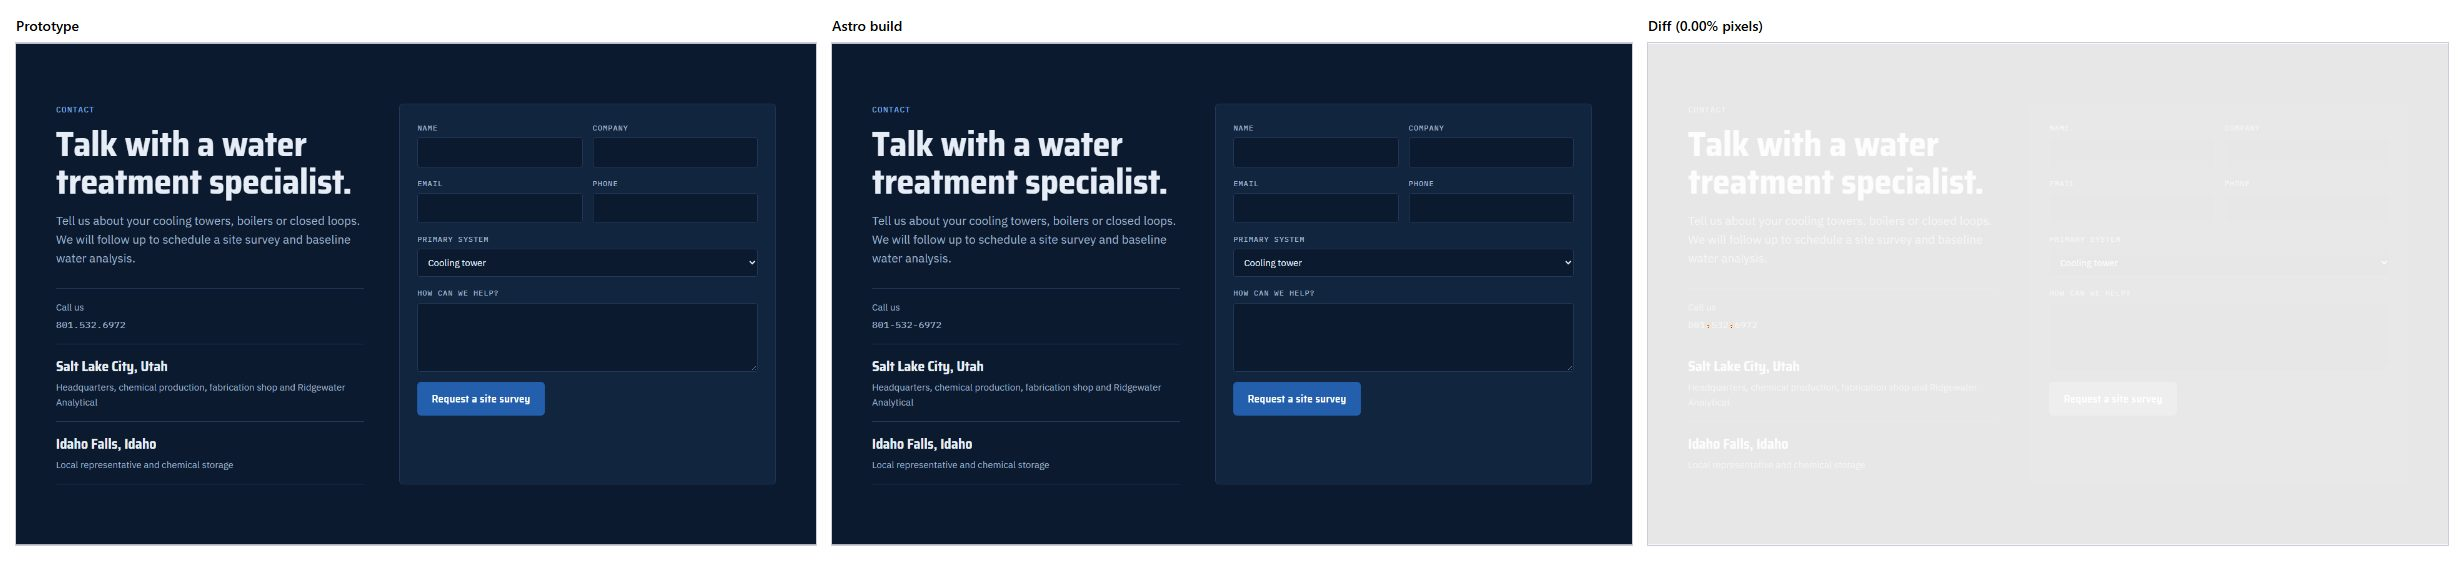
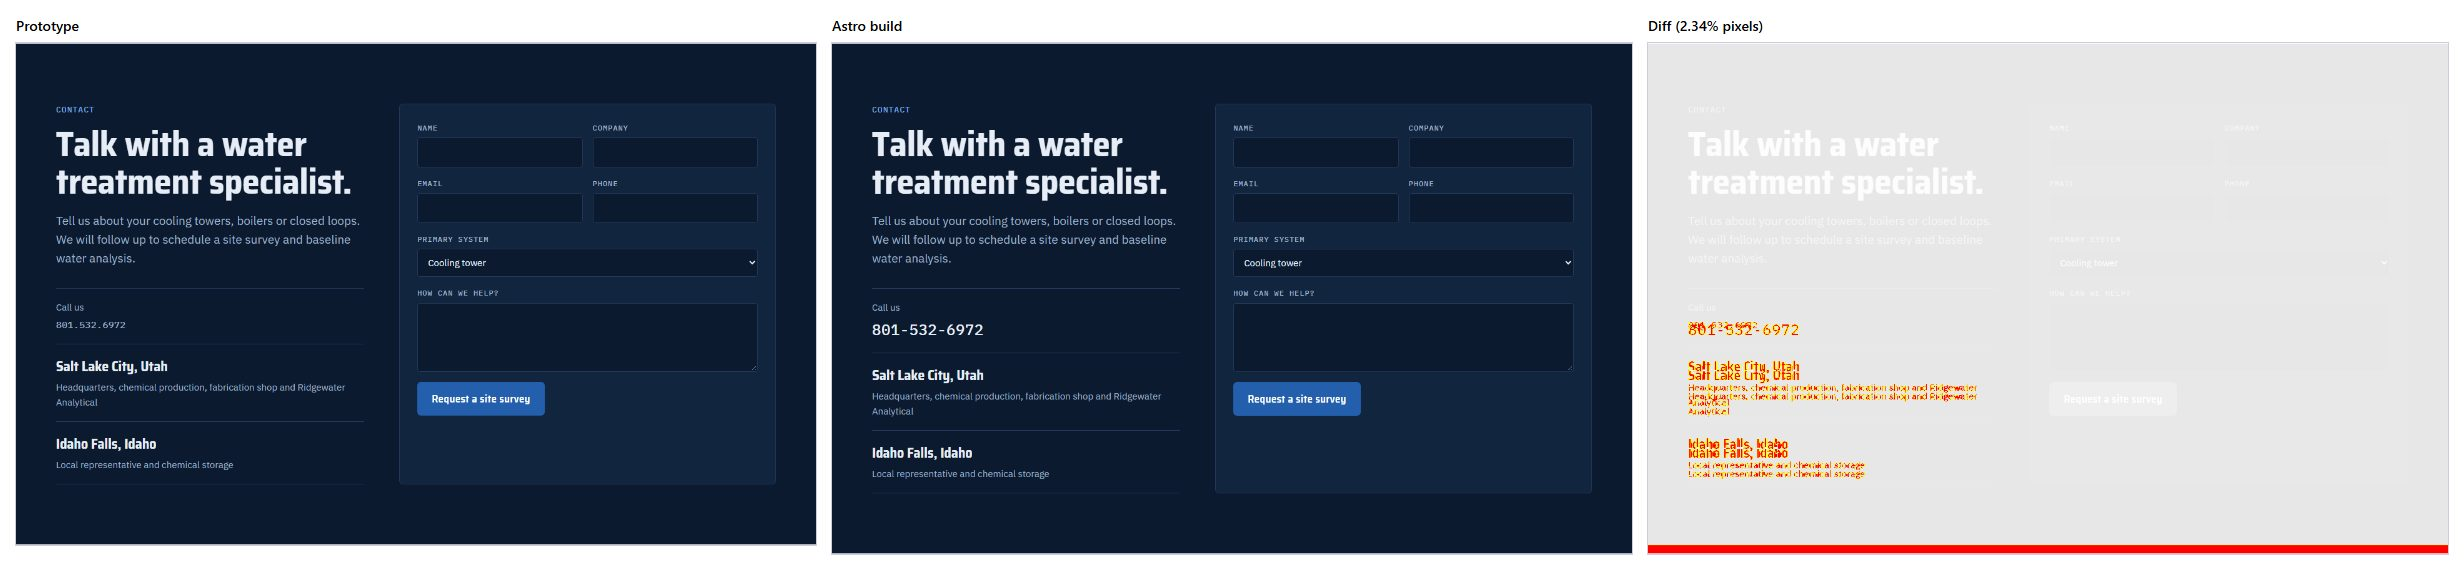
Phase 1 screenshots: monthly wording, larger contact phone

diff --git a/phase-1/report.md b/phase-1/report.md
@@ -6,33 +6,33 @@
 | 1280 | header | 1280×74 | 1280×74 | 0.72% |
 | 1280 | hero | 1280×670 | 1280×670 | 0.06% |
 | 1280 | proof-strip | 1280×200 | 1280×200 | 2.97% |
-| 1280 | ecosystem | 1280×1456 | 1280×1456 | 0.00% |
+| 1280 | ecosystem | 1280×1456 | 1280×1456 | 0.05% |
 | 1280 | systems | 1280×1353 | 1280×1353 | 0.11% |
 | 1280 | equipment | 1280×1586 | 1280×1586 | 0.03% |
 | 1280 | ridgewater | 1280×1958 | 1280×1958 | 0.03% |
-| 1280 | service | 1280×1043 | 1280×1043 | 0.04% |
+| 1280 | service | 1280×1043 | 1280×1043 | 0.09% |
 | 1280 | construction | 1280×747 | 1280×747 | 0.00% |
 | 1280 | training | 1280×258 | 1280×258 | 0.00% |
 | 1280 | industries | 1280×656 | 1280×656 | 0.00% |
 | 1280 | memberships | 1280×1369 | 1280×1369 | 0.09% |
 | 1280 | about | 1280×1320 | 1280×1320 | 0.03% |
 | 1280 | working-with-us | 1280×498 | 1280×498 | 0.00% |
-| 1280 | contact | 1280×803 | 1280×803 | 0.00% |
-| 1280 | footer | 1280×414 | 1280×414 | 0.05% |
+| 1280 | contact | 1280×803 | 1280×817 | 2.34% |
+| 1280 | footer | 1280×414 | 1280×414 | 0.79% |
 | 390 | utility-bar | 390×64 | 390×64 | 1.16% |
 | 390 | header | 390×70 | 390×70 | 0.10% |
 | 390 | hero | 390×1061 | 390×1061 | 0.03% |
 | 390 | proof-strip | 390×390 | 390×390 | 3.69% |
-| 390 | ecosystem | 390×3035 | 390×3035 | 0.00% |
+| 390 | ecosystem | 390×3035 | 390×3035 | 0.09% |
 | 390 | systems | 390×2585 | 390×2585 | 0.09% |
 | 390 | equipment | 390×3347 | 390×3347 | 0.01% |
 | 390 | ridgewater | 390×3498 | 390×3498 | 0.00% |
-| 390 | service | 390×1849 | 390×1849 | 0.01% |
+| 390 | service | 390×1849 | 390×1849 | 0.10% |
 | 390 | construction | 390×1450 | 390×1450 | 0.00% |
 | 390 | training | 390×532 | 390×532 | 0.00% |
 | 390 | industries | 390×1278 | 390×1278 | 0.00% |
 | 390 | memberships | 390×2782 | 390×2782 | 0.08% |
 | 390 | about | 390×1976 | 390×1976 | 0.00% |
 | 390 | working-with-us | 390×757 | 390×757 | 0.00% |
-| 390 | contact | 390×1456 | 390×1456 | 0.00% |
-| 390 | footer | 390×998 | 390×998 | 0.07% |
+| 390 | contact | 390×1456 | 390×1470 | 4.03% |
+| 390 | footer | 390×998 | 390×999 | 0.93% |
